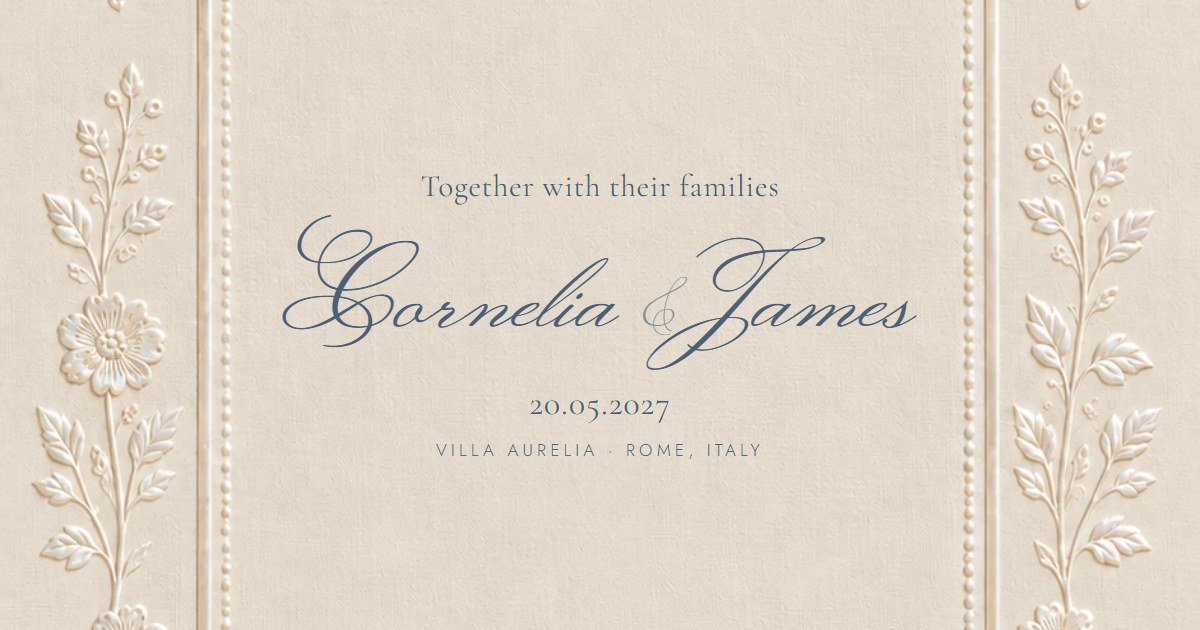
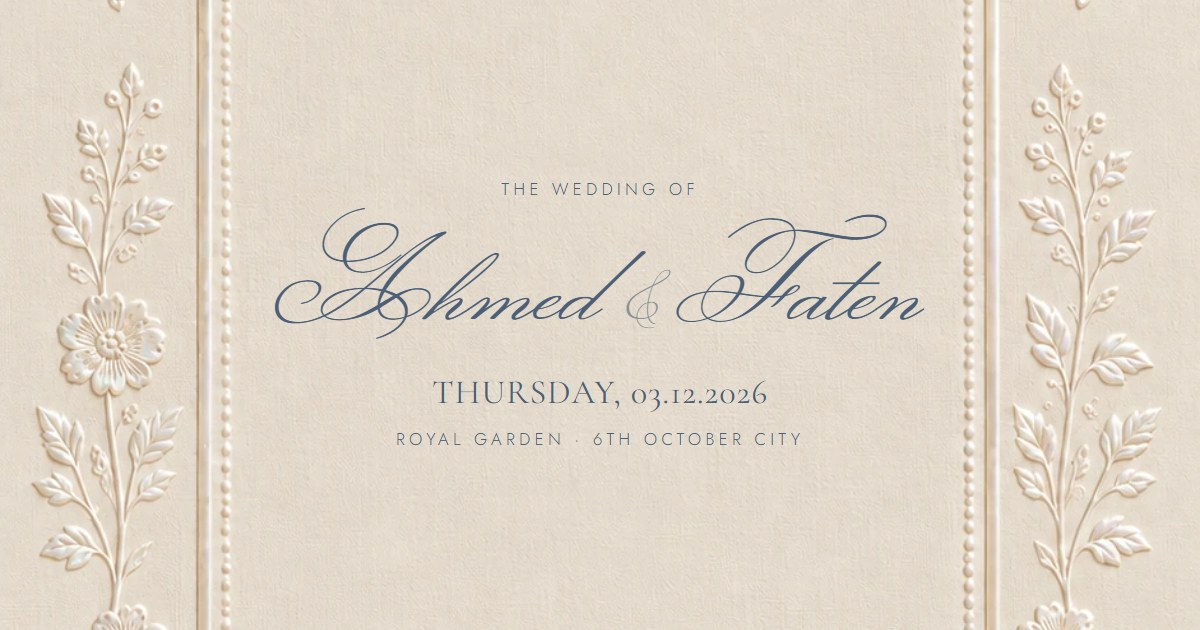
DBywdm2 بطلب المالك: كلام الكارت الأساسي اللي بعته بالظبط — THE WEDDING OF / Ahmed & Faten / Together with their families, / THURSDAY, 03.12.2026 / Royal Garden · 6th October city — بخطوط التصميم نفسها. المكان على سطرين زي التصميم (Royal Garden وتحتها 6TH OCTOBER CITY) لأنه في سطر واحد كان بيخبط في 
Claude-Session: https://claude.ai/code/session_018uZ4Nkc3hPszZT4F46Ptn6

diff --git a/custom-invitations/DBywdm2.html b/custom-invitations/DBywdm2.html
@@ -4,7 +4,7 @@
 <meta charset="utf-8">
 <meta name="viewport" content="width=device-width, initial-scale=1">
 <meta name="google" content="notranslate">
-<title>Cornelia &amp; James — Wedding Invitation</title>
+<title>Ahmed &amp; Faten — Wedding Invitation</title>
 <link rel="preload" as="image" href="assets/poster.webp">
 <link rel="preload" as="image" href="assets/hero-frame.webp">
 <link rel="preload" as="font" type="font/woff2" href="assets/doulaise.woff2" crossorigin>
@@ -65,12 +65,15 @@ main{background:var(--bg);color:var(--fg);overflow-x:hidden;overflow-x:clip}
 .hero-img{position:absolute;left:0;top:0;width:100%;height:100%;max-width:none;object-fit:cover;pointer-events:none}
 .hero-text{position:relative;z-index:20;display:flex;flex-direction:column;align-items:center;justify-content:center;flex:1 1 0%;text-align:center;padding:0 24px;opacity:0;transition:opacity 2000ms ease-out}
 .hero-text.on{opacity:1}
-.ht-with{font-family:var(--serif);font-size:17px;letter-spacing:.025em;line-height:1.375}
-.ht-with span{display:block}
+/* كلام الكارت بطلب المالك (2026-11-06) بنفس خطوط التصميم: THE WEDDING OF بخط ROME, ITALY القديم،
+   الأسامي زي ما هي، والباقي بخط "Together with their families" والتاريخ القديمين. المكان على سطرين
+   زي التصميم (Villa Aurelia / ROME, ITALY): في سطر واحد كان بيخبط في الإطار على الموبايلات الأصغر */
+.ht-of{font-size:11px;letter-spacing:.25em;line-height:1.5}
 .ht-names{margin-top:32px;display:flex;flex-direction:column;align-items:center}
 .ht-names h1{font-family:var(--script);font-weight:400;font-size:50px;line-height:.95}
 .ht-amp{font-family:var(--serif);font-size:18px;line-height:1;margin:10px 0}
-.ht-date{font-family:var(--serif);font-size:18px;line-height:28px;margin-top:24px;letter-spacing:.025em}
+.ht-with{font-family:var(--serif);font-size:17px;letter-spacing:.025em;line-height:1.375;margin-top:24px}
+.ht-date{font-family:var(--serif);font-size:18px;line-height:28px;margin-top:20px;letter-spacing:.025em}
 .ht-venue{margin-top:20px;display:flex;flex-direction:column;align-items:center}
 .ht-place{font-family:var(--serif);font-size:20px;letter-spacing:.025em;line-height:1.375}
 .ht-city{font-size:11px;letter-spacing:.25em;margin-top:4px}
@@ -91,12 +94,10 @@ main{background:var(--bg);color:var(--fg);overflow-x:hidden;overflow-x:clip}
 .sc-bg{width:100%;height:auto}
 .sc-oval,.sc-ring{position:absolute;left:33%;top:25%;width:34.1%;height:50.2%;border-radius:50%}
 .sc-oval{overflow:hidden}
-.sc-under{position:absolute;left:0;top:0;right:0;bottom:0;display:flex;flex-direction:column;align-items:center;justify-content:center;text-align:center;background:var(--ivory) url(assets/nacre.webp) center/cover;visibility:hidden}
+/* تحت الخدش: صورة العرسان (المالك بعتها 2026-11-06) بنفس طريقة التصميم الأصلي — مالية الشكل البيضاوي */
+.sc-under{position:absolute;left:0;top:0;right:0;bottom:0;background:var(--ivory);visibility:hidden}
 .sc-under.ready{visibility:visible}
-.sc-under::before{content:"";position:absolute;left:0;top:0;right:0;bottom:0;background:rgba(255,253,250,.42)}
-.sc-under>*{position:relative}
-.sc-save{font-family:var(--script);font-size:7.4vw;line-height:1.02}
-.sc-date{font-family:var(--serif);font-size:4.2vw;letter-spacing:.06em;margin-top:2.6vw}
+.sc-photo{position:absolute;left:0;top:0;width:100%;height:100%;max-width:none;object-fit:cover;-webkit-user-select:none;user-select:none}
 .sc-canvas{position:absolute;left:0;top:0;width:100%;height:100%;cursor:pointer;touch-action:none;transition:opacity .7s}
 .sc-canvas.done{opacity:0;pointer-events:none}
 .sc-ring{pointer-events:none;box-shadow:0 0 0 3px hsl(40,45%,72%),0 0 0 5px hsl(40,30%,92%),0 0 0 6px hsl(40,40%,62%),0 0 0 12px hsla(40,30%,96%,.55),0 0 0 13px hsl(40,40%,66%),0 6px 18px hsla(212,22%,30%,.25),inset 0 0 10px hsla(40,40%,40%,.35)}
@@ -287,11 +288,12 @@ textarea.ri::placeholder{font-size:14px}
 /* ===== شاشات أكبر من الموبايل (نفس نقطة md في التصميم الأصلي) ===== */
 @media (min-width:768px){
   body{font-size:19px}
-  .ht-with{font-size:19px}
+  .ht-of{font-size:12px}
   .ht-names{margin-top:40px}
   .ht-names h1{font-size:64px}
   .ht-amp{font-size:20px;line-height:1;margin:14px 0}
-  .ht-date{font-size:20px;margin-top:32px}
+  .ht-with{font-size:19px;margin-top:32px}
+  .ht-date{font-size:20px;margin-top:24px}
   .ht-venue{margin-top:24px}
   .ht-place{font-size:24px}
   .ht-city{font-size:12px}
@@ -372,16 +374,17 @@ textarea.ri::placeholder{font-size:14px}
   <section class="hero">
     <img class="hero-img" src="assets/hero-frame.webp" alt="" aria-hidden="true" draggable="false">
     <div class="hero-text" id="heroText">
-      <p class="ht-with"><span>Together with</span><span>their families</span></p>
+      <p class="ht-of up">THE WEDDING OF</p>
       <div class="ht-names">
-        <h1>Cornelia</h1>
+        <h1>Ahmed</h1>
         <p class="ht-amp">&amp;</p>
-        <h1>James</h1>
+        <h1>Faten</h1>
       </div>
-      <p class="ht-date">20.05.2027</p>
+      <p class="ht-with">Together with their families,</p>
+      <p class="ht-date">THURSDAY, 03.12.2026</p>
       <div class="ht-venue">
-        <p class="ht-place">Villa Aurelia</p>
-        <p class="ht-city up">Rome, Italy</p>
+        <p class="ht-place">Royal Garden</p>
+        <p class="ht-city up">6th October city</p>
       </div>
     </div>
   </section>
@@ -409,8 +412,7 @@ textarea.ri::placeholder{font-size:14px}
       <img class="sc-bg" src="assets/welcome-families.webp" alt="Together with their families" loading="lazy" draggable="false">
       <div class="sc-oval">
         <div class="sc-under" id="scUnder">
-          <p class="sc-save">Save<br>the Date</p>
-          <p class="sc-date">20.05.2027</p>
+          <img class="sc-photo" src="assets/couple.webp" alt="Ahmed &amp; Faten" loading="lazy" decoding="async" draggable="false">
         </div>
         <canvas class="sc-canvas" id="scratch"></canvas>
       </div>
@@ -633,8 +635,8 @@ is our greatest gift.</p>
         <p class="cf-l">We are delighted that you will be celebrating with us.</p>
         <p class="cf-l">Thank you for being part of our story.</p>
         <p class="cf-s">We look forward to welcoming you on:</p>
-        <p class="cf-w">Thursday 20 May 2027</p>
-        <p class="cf-sig">— Cornelia &amp; James</p>
+        <p class="cf-w">Thursday 3 December 2026</p>
+        <p class="cf-sig">— Ahmed &amp; Faten</p>
         <div class="cf-b">
           <a id="cfCal" href="#"><svg viewBox="0 0 24 24" aria-hidden="true"><path d="M8 2v4"/><path d="M16 2v4"/><rect width="18" height="18" x="3" y="4" rx="2"/><path d="M3 10h18"/></svg>Add to Calendar</a>
           <a href="https://www.google.com/maps/search/?api=1&amp;query=Villa%20Aurelia%2C%20Rome%2C%20Italy" target="_blank" rel="noopener noreferrer"><svg viewBox="0 0 24 24" aria-hidden="true"><path d="M20 10c0 4.993-5.539 10.193-7.399 11.799a1 1 0 0 1-1.202 0C9.539 20.193 4 14.993 4 10a8 8 0 0 1 16 0"/><circle cx="12" cy="10" r="3"/></svg>View on Map</a>
@@ -646,7 +648,7 @@ is our greatest gift.</p>
       <div class="cf-in cf-no">
         <h2>With Gratitude</h2>
         <p class="cf-l">We are sorry to learn that you are unable to join us. You will be in our thoughts on the day.</p>
-        <p class="cf-sig">— Cornelia &amp; James</p>
+        <p class="cf-sig">— Ahmed &amp; Faten</p>
       </div>
     </section>
   </div>
@@ -658,8 +660,8 @@ is our greatest gift.</p>
         <img class="ft-seal" src="assets/seal.webp" alt="C &amp; J" draggable="false">
         <p class="ft-w">We can't wait to celebrate with you.</p>
         <p class="ft-l">With love,</p>
-        <p class="ft-n">Cornelia <span>&amp;</span> James</p>
-        <p class="ft-d">20 May 2027</p>
+        <p class="ft-n">Ahmed <span>&amp;</span> Faten</p>
+        <p class="ft-d">3 December 2026</p>
       </div>
     </footer>
   </div>
@@ -679,13 +681,14 @@ is our greatest gift.</p>
   'use strict';
   /* بيانات الدعوة اللي الكود محتاجها — أي تعديل في الميعاد بيبقى هنا */
   var EVENT = {
-    // العدّاد: 20 مايو 2027 الساعة 12 الظهر بتوقيت إيطاليا (نفس التصميم الأصلي)
-    countdownTo: Date.UTC(2027, 4, 20, 10, 0, 0),
-    calendarTitle: 'Wedding Cornelia & James',
-    calendarDetails: 'Wedding of Cornelia and James',
-    calendarWhere: 'Villa Aurelia, Rome, Italy',
-    calendarDates: '20270520T163000/20270520T233000',
-    calendarZone: 'Europe/Rome'
+    // العدّاد: الخميس 3 ديسمبر 2026 الساعة 12 الظهر بتوقيت مصر (UTC+2) — نفس ساعة التصميم الأصلي
+    // لحد ما المالك يبعت ميعاد الفرح. التقويم 4:30–11:30 مساءً زي برنامج اليوم اللي في الصفحة.
+    countdownTo: Date.UTC(2026, 11, 3, 10, 0, 0),
+    calendarTitle: 'Wedding Ahmed & Faten',
+    calendarDetails: 'Wedding of Ahmed and Faten',
+    calendarWhere: 'Royal Garden, 6th October City, Egypt',
+    calendarDates: '20261203T163000/20261203T233000',
+    calendarZone: 'Africa/Cairo'
   };
   var ID = window.MQ_ID || '';
   var BASE = ID ? '/i/' + ID : '';
@@ -717,6 +720,21 @@ is our greatest gift.</p>
   /* ---------- 1. الفتح: الفيديوهين ورا بعض ثم الكارت ---------- */
   var cover = $('#cover'), v1 = $('#v1'), v2 = $('#v2'), heroText = $('#heroText');
   var state = 'idle', heroShown = false, v2Started = false, watchdog = 0, firstWatch = 0;
+
+  /* الكارت: صورة الإطار بتتعرض object-fit: cover، فبتصغر على الشاشات الأقصر/الأضيق. على أي شاشة إطارها
+     أصغر من إطار آيفون في سفاري (آيفون SE/ميني، أندرويد القصير) الكلام كله بيصغر بنفس نسبة الإطار
+     عشان يفضل جوه الإطار بنفس الشكل؛ الشاشات الأكبر بمقاسات التصميم زي ما هي. */
+  var heroBox = $('.hero'), heroImg = $('.hero-img');
+  function fitHero() {
+    var iw = heroImg.naturalWidth || 941, ih = heroImg.naturalHeight || 1672;
+    var w = heroBox.clientWidth, h = heroBox.clientHeight;
+    if (!w || !h) return;
+    var s = Math.min(1, Math.max(w / iw, h / ih) / 0.43);
+    heroText.style.transform = s < 0.995 ? 'scale(' + s.toFixed(4) + ')' : '';
+  }
+  fitHero();
+  window.addEventListener('resize', fitHero);
+  heroImg.addEventListener('load', fitHero);
 
   function unlock() { root.classList.remove('lock'); }
   function showHero() {

diff --git a/utils/oneOffFixes.js b/utils/oneOffFixes.js
@@ -903,6 +903,33 @@ const FIXES = [
     },
   },
   {
+    // DBywdm2 — المالك بعت كلام الكارت الأساسي (2026-11-06): Ahmed & Faten، الخميس 3/12/2026،
+    // Royal Garden · 6th October city. هنا نفس الأسامي والتاريخ والمكان عشان لوحة العميل وصفحة
+    // الإحصائيات وملف التقويم يبقوا زي الصفحة. الساعة لسه 4:30 مساءً (أول برنامج اليوم اللي في
+    // الصفحة) لحد ما المالك يبعت ميعاد الفرح. بيغيّر الحقول دي بس، ومش بيتعمل غير لو البيانات لسه
+    // بتاعة التصميم (James & Cornelia).
+    name: 'DBywdm2-ahmed-faten',
+    shortId: 'DBywdm2',
+    select: '-__v',
+    when: (c, inv) => inv.groomName === 'James' && inv.brideName === 'Cornelia',
+    async apply(c, inv) {
+      const { buildInvitationDataFromRequest } = require('./invitationData');
+      const data = await buildInvitationDataFromRequest({
+        templateId: inv.templateId, language: 'en', occasionType: 'wedding',
+        hiddenSections: inv.hiddenSections, timeline: inv.timeline, name: inv.name,
+        groomName: 'Ahmed', groomNameAr: 'أحمد',
+        brideName: 'Faten', brideNameAr: 'فاتن',
+        venueName: 'Royal Garden', venueCity: '6th October city',
+        weddingDate: '2026-12-03', weddingTime: '16:30',
+      }, { ownsTemplate: true });
+      const set = {};
+      ['groomName', 'groomNameAr', 'brideName', 'brideNameAr', 'venueName', 'venueCity',
+        'venueMapQuery', 'venueMapEmbedSrc', 'venueMapDirectLink', 'weddingDateTime']
+        .forEach((k) => { set[k] = data[k]; });
+      return set;
+    },
+  },
+  {
     // G1L8BxQ — المالك بعت لوكيشن صالة قلوريا للمناسبات الاجتماعية (2026-11-04). الدبوس القديم كان
     // على نفس الإحداثيات بس من غير اسم الصالة، والاسم الوحيد اللي باين جنبه "قاعة فيدا". دلوقتي
     // الخريطة هي تضمين المالك نفسه (المكان باسمه، الخريطة العادية مش القمر الصناعي، وبالعربي)،

diff --git a/custom-invitations/DBywdm2.js b/custom-invitations/DBywdm2.js
@@ -1,6 +1,8 @@
 // دعوة "صدف" (Mother of Pearl) — بطلب المالك (2026-11-05): نفس الدعوة اللي في الصورة الطويلة
 // بالظبط (motherofpearl.thedigitalyes.com)، مكان دعوة فاضية (Groom & Bride) — نفس اللينك واللوحة
 // والإحصائيات. الكلام لسه بتاع التصميم الأصلي (Cornelia & James) والمالك هيبعت التعديلات بعدين.
+// 2026-11-06: المالك بعت كلام الكارت الأساسي — Ahmed & Faten، الخميس 03.12.2026، Royal Garden ·
+// 6th October city — والأسامي والتاريخ اتغيروا في كل حتة بتتكرر فيها. باقي الأقسام لسه كلام التصميم.
 //
 // الصفحة نفسها في DBywdm2.html (كل النصوص هناك، والميعاد في EVENT أول السكريبت):
 //   1. الفتح: فيديو الظرف ثم فيديو الفيونكة (v1/v2) ثم الكارت
@@ -44,15 +46,15 @@ module.exports = {
   shortId: SHORT,
 
   // زرار "Add to Calendar" على الآيفون بيفتح /i/DBywdm2/calendar.ics (routes/invitations.js)
-  calendar: { title: 'Wedding Cornelia & James', hours: 7 },
+  calendar: { title: 'Wedding Ahmed & Faten', hours: 7 },
 
   share: {
     image: asset(`${DIR}share.jpg`),
     width: 1200,
     height: 630,
     overrideImage: true,
-    title: 'Cornelia & James — Wedding Invitation',
-    description: '20 May 2027 · Villa Aurelia, Rome, Italy',
+    title: 'Ahmed & Faten — Wedding Invitation',
+    description: 'Thursday, 03.12.2026 · Royal Garden · 6th October city',
   },
 
   render() {
